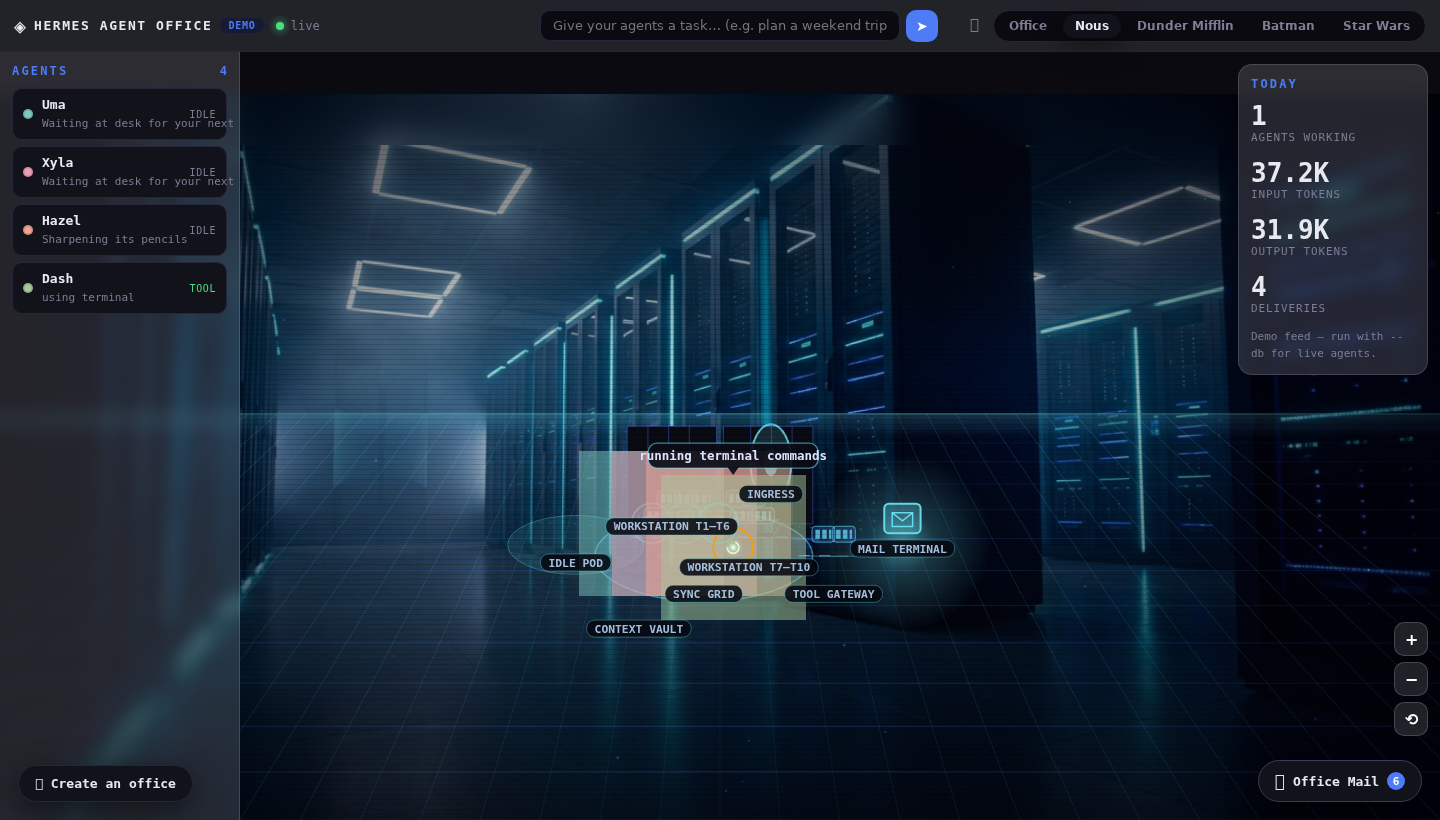
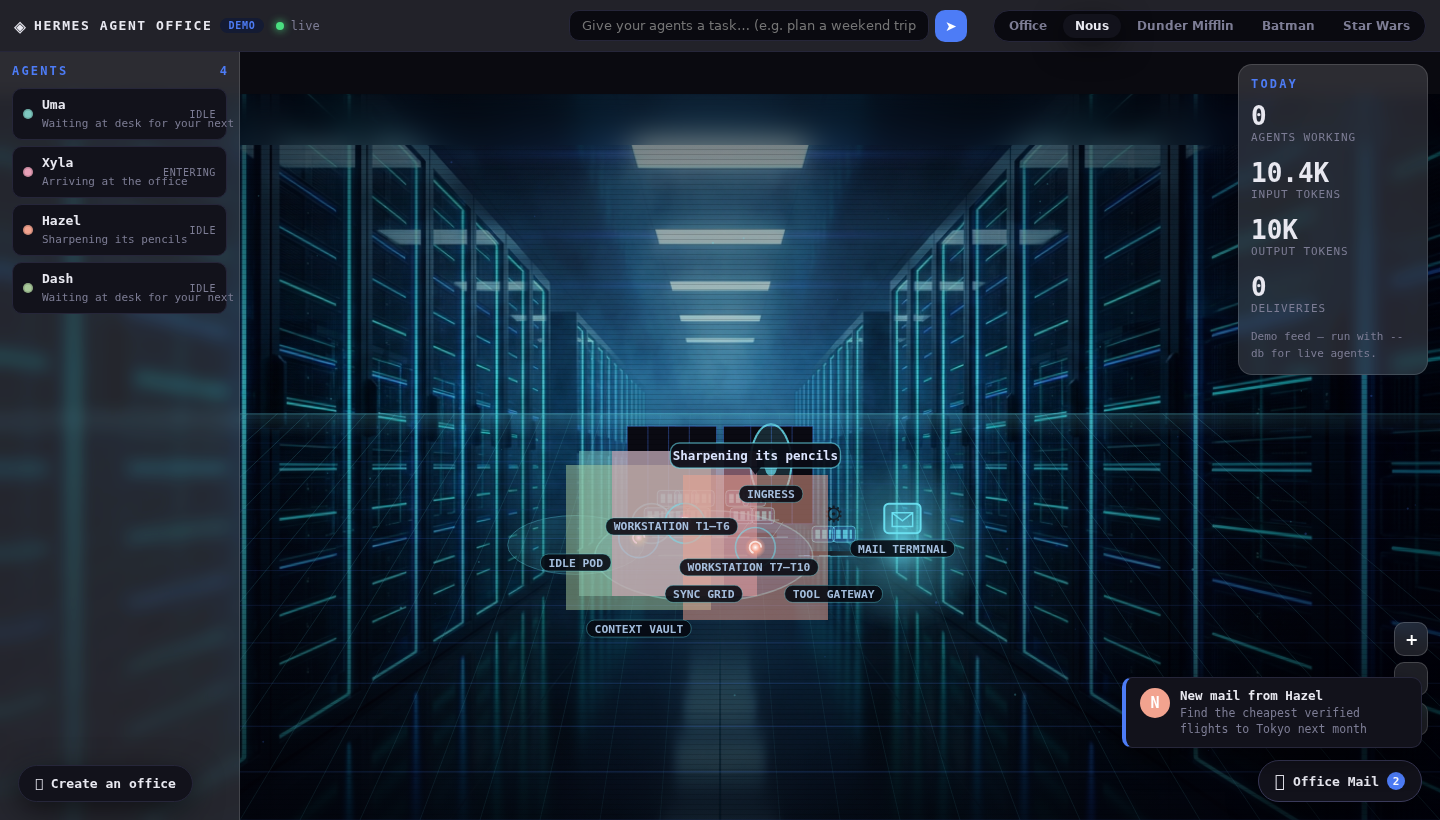
feat: remove sound entirely (no generic audio); all 5 theme backdrops regenerated with premium prompts via gemini-3-pro-image (cinematic data center, painterly sitcom, pastel diorama, Gotham with bat-signal, starship hangar); fresh screenshots + montage

diff --git a/web/app.js b/web/app.js
@@ -543,7 +543,6 @@ async function submitTask(text) {
       return;
     }
     toast('Task assigned', 'The team is on it — watch the office', '#d96f4a');
-    Sound.assigned();
   } catch (e) {
     toast('Task not accepted', 'Office server unreachable', '#c0504d');
   }
@@ -605,7 +604,7 @@ function wireShortcuts() {
       case '1': applyTheme('office'); break;
       case '2': applyTheme('nous'); break;
       case '3': applyTheme('dunder'); break;
-      case 'm': case 'M': toggleMute(); break;
+      case 'm': case 'M':  break;
       case 'g': case 'G': openMailbox(); break;
       case 't': case 'T':
         e.preventDefault();
@@ -657,90 +656,8 @@ function toast(title, sub, color) {
 }
 
 /* ============================== sound (WebAudio, zero assets) ============================== */
-const Sound = {
-  ctx: null, muted: false,
-  ensure() {
-    if (!this.ctx) {
-      try { this.ctx = new (window.AudioContext || window.webkitAudioContext)(); } catch (e) {}
-    }
-    if (this.ctx && this.ctx.state === 'suspended') this.ctx.resume();
-  },
-  pop(freq = 660, dur = 0.09, gain = 0.05) {
-    if (this.muted || !this.ctx) return;
-    const t = this.ctx.currentTime;
-    const osc = this.ctx.createOscillator();
-    const g = this.ctx.createGain();
-    osc.type = 'sine';
-    osc.frequency.setValueAtTime(freq, t);
-    osc.frequency.exponentialRampToValueAtTime(freq * 1.8, t + dur);
-    g.gain.setValueAtTime(gain, t);
-    g.gain.exponentialRampToValueAtTime(0.0001, t + dur);
-    osc.connect(g).connect(this.ctx.destination);
-    osc.start(t); osc.stop(t + dur + 0.02);
-  },
-  delivery() { this.pop(660, 0.12, 0.06); setTimeout(() => this.pop(880, 0.1, 0.04), 90); },
-  theme() { this.pop(440, 0.08, 0.04); },
-  assigned() { this.pop(520, 0.1, 0.05); setTimeout(() => this.pop(700, 0.09, 0.04), 80); },
-  /* ambient office soundscape — synthesized, zero assets */
-  ambientNodes: null,
-  startAmbient() {
-    this.ensure();
-    if (this.ambientNodes || !this.ctx || this.muted) return;
-    const ctx = this.ctx;
-    const master = ctx.createGain();
-    master.gain.value = 0.035;
-    master.connect(ctx.destination);
-    // brown-ish noise (air handling / room tone)
-    const len = ctx.sampleRate * 2;
-    const buf = ctx.createBuffer(1, len, ctx.sampleRate);
-    const d = buf.getChannelData(0);
-    let last = 0;
-    for (let i = 0; i < len; i++) { const w = Math.random() * 2 - 1; last = (last + 0.02 * w) / 1.02; d[i] = last * 3.5; }
-    const noise = ctx.createBufferSource();
-    noise.buffer = buf;
-    noise.loop = true;
-    const lp = ctx.createBiquadFilter();
-    lp.type = 'lowpass';
-    lp.frequency.value = 320;
-    noise.connect(lp).connect(master);
-    noise.start();
-    // faint keyboard click loop
-    const clicks = ctx.createGain();
-    clicks.gain.value = 0.35;
-    clicks.connect(master);
-    const tick = () => {
-      if (!this.ambientNodes || this.muted) return;
-      if (Math.random() < 0.5) {
-        const o = ctx.createOscillator();
-        const g = ctx.createGain();
-        o.type = 'square';
-        o.frequency.value = 1200 + Math.random() * 800;
-        g.gain.setValueAtTime(0.15, ctx.currentTime);
-        g.gain.exponentialRampToValueAtTime(0.001, ctx.currentTime + 0.03);
-        o.connect(g).connect(clicks);
-        o.start(); o.stop(ctx.currentTime + 0.04);
-      }
-      setTimeout(tick, 120 + Math.random() * 420);
-    };
-    tick();
-    this.ambientNodes = { master, noise };
-  },
-  stopAmbient() {
-    if (this.ambientNodes) {
-      try { this.ambientNodes.noise.stop(); } catch (e) {}
-      this.ambientNodes = null;
-    }
-  },
-};
 
-function toggleMute() {
-  Sound.muted = !Sound.muted;
-  if (Sound.muted) Sound.stopAmbient();
-  else Sound.startAmbient();
-  const b = document.getElementById('mute-btn');
-  if (b) b.textContent = Sound.muted ? '🔇' : '🔊';
-  localStorage.setItem('office-muted', Sound.muted ? '1' : '0');
-}
+
 
 /* ============================== delivery choreography ============================== */
 
@@ -773,7 +690,6 @@ function finishPendingDeliveries() {
         toast('New mail from ' + ev.agent, short(ev.title || ev.text || 'A delivery landed in your mailbox'), a.color);
       }
       store.unread += 1;
-      Sound.ensure(); Sound.delivery();
       renderMailboxBadge();
       renderRoster();
     }
@@ -850,7 +766,6 @@ function applyCustomTheme(theme) {
   saved[id] = stripCustomForSave(theme);
   localStorage.setItem('office-custom-themes', JSON.stringify(saved));
   applyTheme(id);
-  Sound.ensure(); Sound.theme();
   toast('Office ready', `${theme.label} is live — your agents have moved in`, theme.ui.accent);
 }
 
@@ -886,18 +801,6 @@ function boot() {
   restoreCustomThemes();
   const saved = localStorage.getItem('office-theme') || 'office';
   applyTheme(saved);
-  // sound OFF by default (per user: no generic audio); user opts in via 🔊
-  Sound.muted = localStorage.getItem('office-muted') !== '0';
-  // autoplay policy: start the soundscape on first click/key anywhere
-  const kick = () => {
-    if (!Sound.muted) Sound.startAmbient();
-    window.removeEventListener('pointerdown', kick);
-    window.removeEventListener('keydown', kick);
-  };
-  window.addEventListener('pointerdown', kick);
-  window.addEventListener('keydown', kick);
-  const mb = document.getElementById('mute-btn');
-  if (mb) { mb.textContent = Sound.muted ? '🔇' : '🔊'; mb.addEventListener('click', toggleMute); }
 
   for (const btn of document.querySelectorAll('.theme-btn')) {
     btn.addEventListener('click', () => applyTheme(btn.dataset.themeName));

diff --git a/web/index.html b/web/index.html
@@ -33,7 +33,7 @@
       <button id="task-send" title="Assign task (Enter)">➤</button>
     </div>
     <div class="topbar-right">
-      <button id="mute-btn" class="mute-btn" title="Toggle sound">🔊</button>
+
       <nav class="theme-switcher" id="theme-switcher" title="Pick an office">
       <button data-theme-name="office" class="theme-btn active">Office</button>
       <button data-theme-name="nous" class="theme-btn">Nous</button>

diff --git a/web/style.css b/web/style.css
@@ -369,10 +369,6 @@ body[data-theme="office"] .brand-name { font-weight: 800; }
 
 /* topbar right cluster */
 .topbar-right { display: flex; align-items: center; gap: 8px; }
-.mute-btn {
-  border: 0; background: transparent; color: var(--text-dim); font-size: 15px;
-  cursor: pointer; padding: 4px 6px; border-radius: 8px; line-height: 1;
-}
 .mute-btn:hover { color: var(--text); background: var(--accent-soft); }
 
 /* welcome overlay */

diff --git a/web/office-renderer.js b/web/office-renderer.js
@@ -14,7 +14,7 @@ const OfficeRenderer = {
     this.agentsV = new Map();   // per-agent visual state
     this.backdrop = null;
     const img = new Image();
-    img.src = '/assets/office-window.png';
+    img.src = '/assets/office-backdrop-v3.png';
     img.onload = () => { this.backdrop = img; if (eng.renderer === this) eng.resize(); };
     this._dust = [];
     this._blurTop = null;
